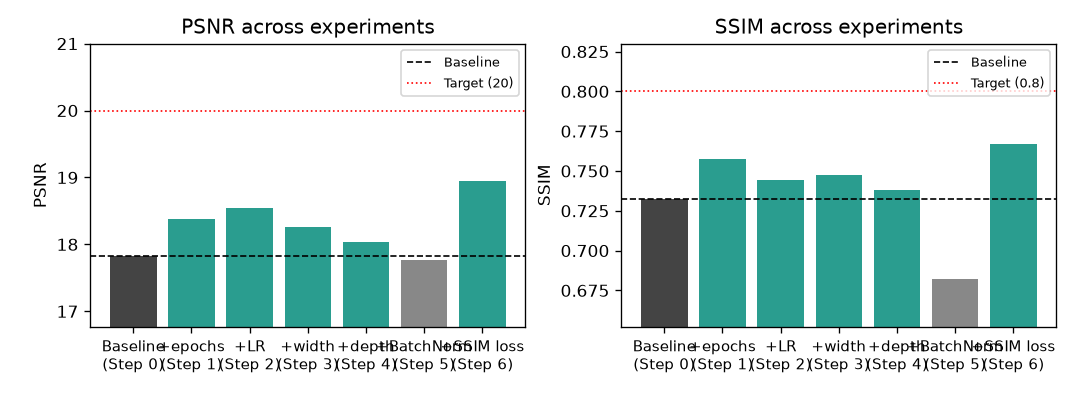
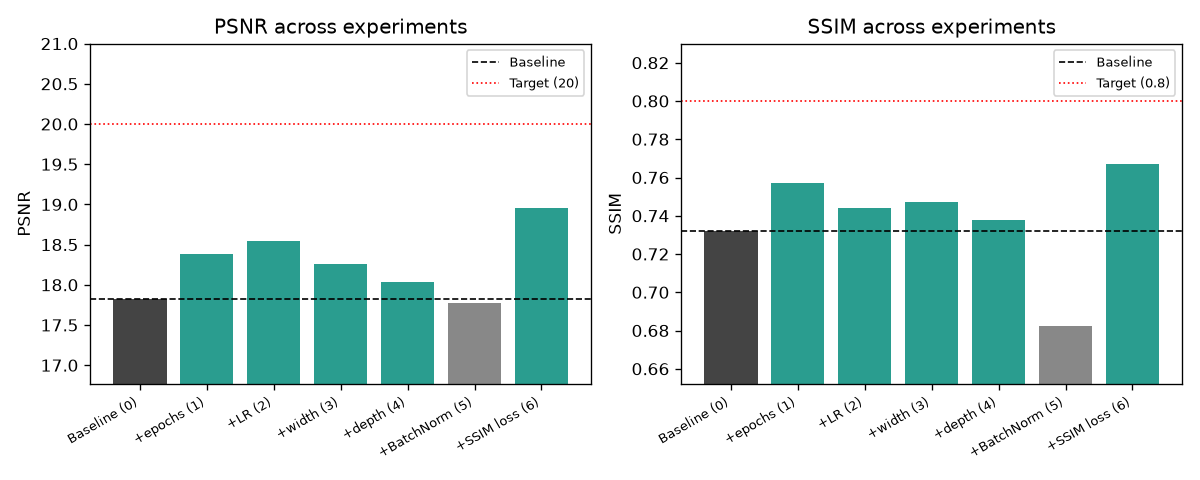
Fix overlapping x-axis labels (rotate + simplify), widen chart slightly

Changed region(s): [[0.0, 0.0303, 1.0, 0.9394]]

diff --git a/chart.py b/chart.py
@@ -8,13 +8,13 @@ import matplotlib.pyplot as plt
 
 # (label, psnr, ssim) -- keep in sync with the table in PROGRESS.md
 RUNS = [
-    ("Baseline\n(Step 0)", 17.82, 0.7322),
-    ("+epochs\n(Step 1)", 18.38, 0.7573),
-    ("+LR\n(Step 2)", 18.54, 0.7442),
-    ("+width\n(Step 3)", 18.26, 0.7474),
-    ("+depth\n(Step 4)", 18.03, 0.7379),
-    ("+BatchNorm\n(Step 5)", 17.77, 0.6822),
-    ("+SSIM loss\n(Step 6)", 18.95, 0.7671),
+    ("Baseline (0)", 17.82, 0.7322),
+    ("+epochs (1)", 18.38, 0.7573),
+    ("+LR (2)", 18.54, 0.7442),
+    ("+width (3)", 18.26, 0.7474),
+    ("+depth (4)", 18.03, 0.7379),
+    ("+BatchNorm (5)", 17.77, 0.6822),
+    ("+SSIM loss (6)", 18.95, 0.7671),
 ]
 
 PSNR_TARGET = 20
@@ -25,14 +25,14 @@ psnr = [r[1] for r in RUNS]
 ssim = [r[2] for r in RUNS]
 x = range(len(RUNS))
 
-fig, (ax1, ax2) = plt.subplots(1, 2, figsize=(9, 3.3))
+fig, (ax1, ax2) = plt.subplots(1, 2, figsize=(10, 4))
 
 colors = ["#444444"] + ["#2a9d8f" if v >= psnr[0] else "#888888" for v in psnr[1:]]
 ax1.bar(x, psnr, color=colors)
 ax1.axhline(psnr[0], color="black", linestyle="--", linewidth=1, label="Baseline")
 ax1.axhline(PSNR_TARGET, color="red", linestyle=":", linewidth=1, label=f"Target ({PSNR_TARGET})")
 ax1.set_xticks(list(x))
-ax1.set_xticklabels(labels, fontsize=9)
+ax1.set_xticklabels(labels, fontsize=8, rotation=30, ha="right")
 ax1.set_ylabel("PSNR")
 ax1.set_title("PSNR across experiments")
 ax1.legend(fontsize=8)
@@ -45,7 +45,7 @@ ax2.bar(x, ssim, color=colors2)
 ax2.axhline(ssim[0], color="black", linestyle="--", linewidth=1, label="Baseline")
 ax2.axhline(SSIM_TARGET, color="red", linestyle=":", linewidth=1, label=f"Target ({SSIM_TARGET})")
 ax2.set_xticks(list(x))
-ax2.set_xticklabels(labels, fontsize=9)
+ax2.set_xticklabels(labels, fontsize=8, rotation=30, ha="right")
 ax2.set_ylabel("SSIM")
 ax2.set_title("SSIM across experiments")
 ax2.legend(fontsize=8)
